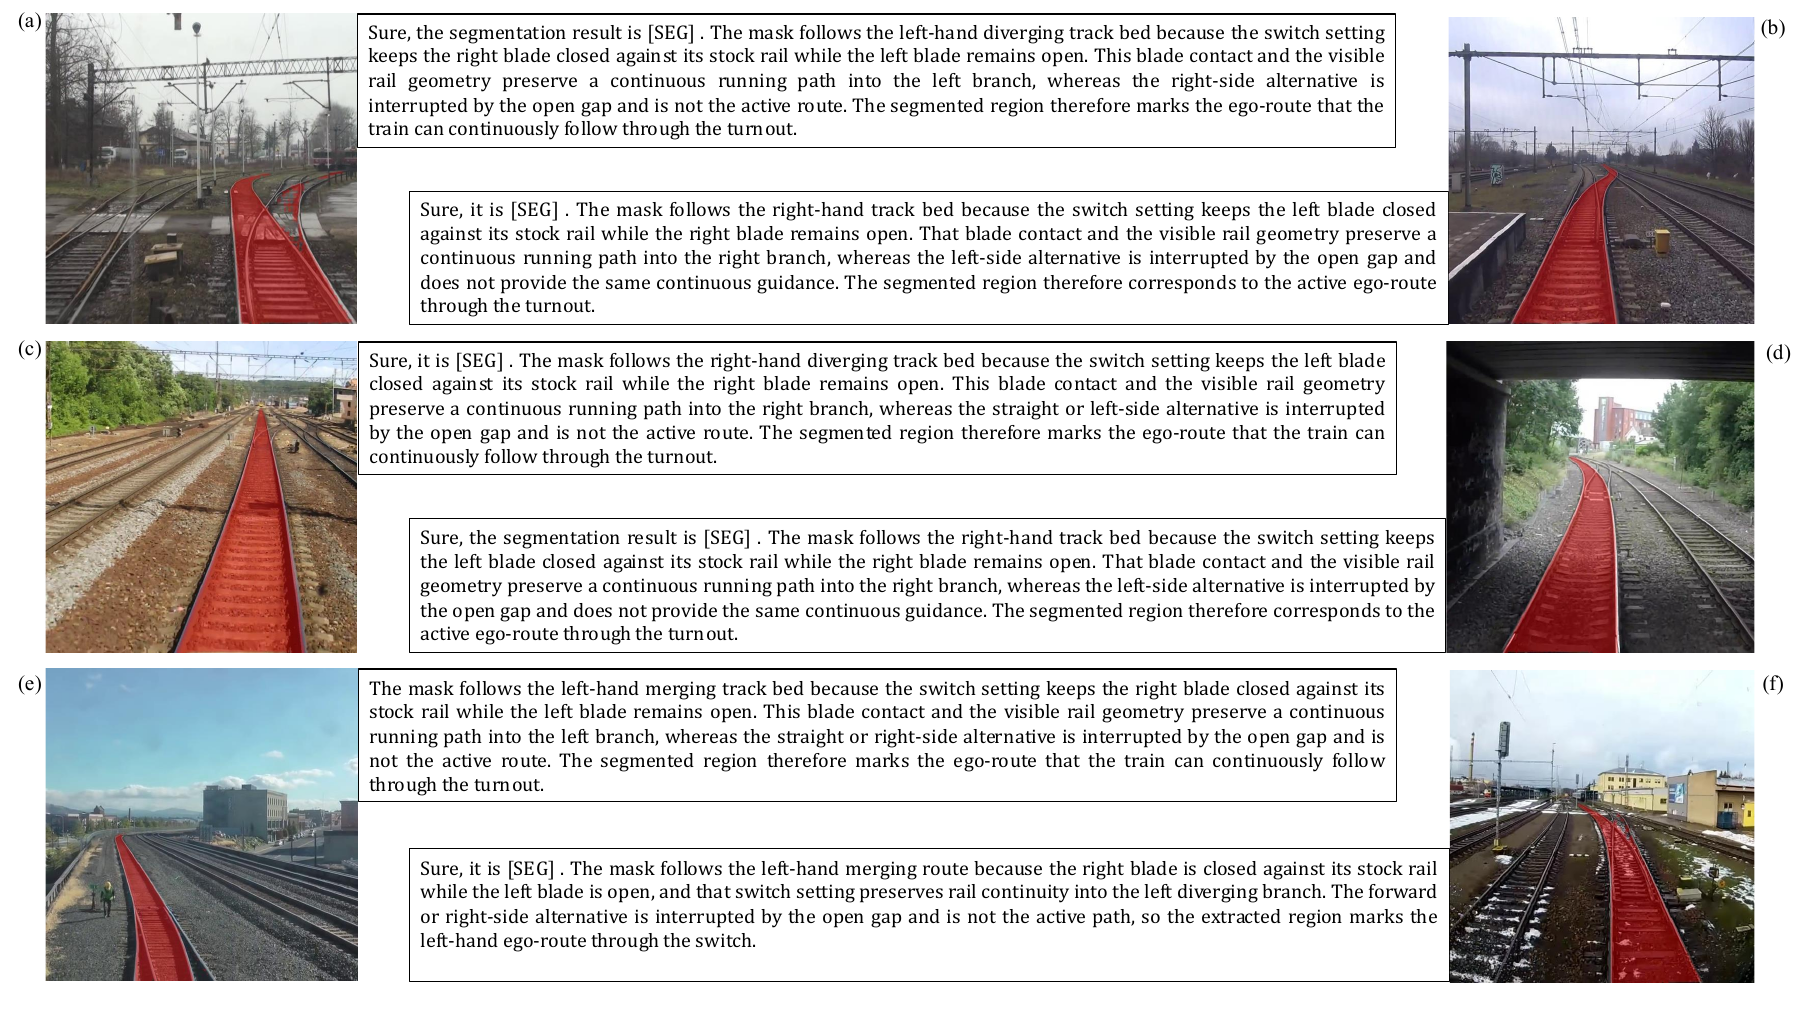
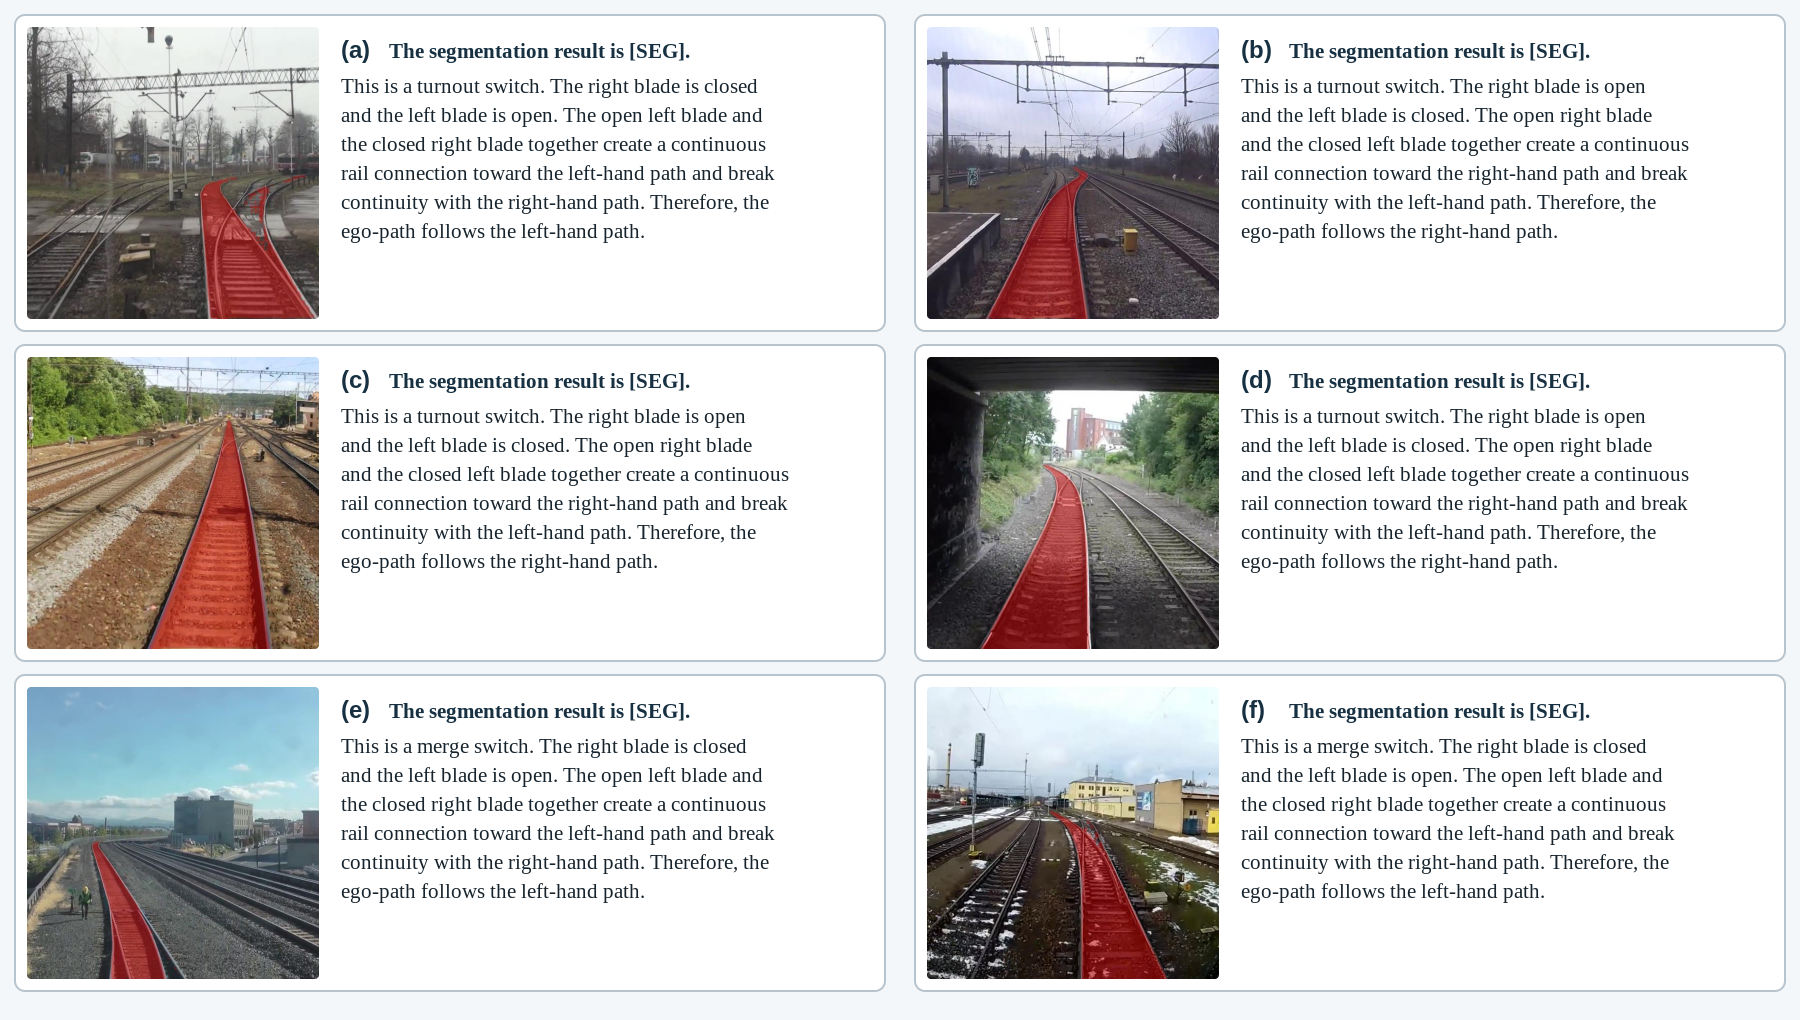
Update README with model details and corrected results visual

diff --git a/README.md b/README.md
@@ -8,29 +8,34 @@
 [![Built on LISA](https://img.shields.io/badge/Built%20on-LISA-2563eb)](https://github.com/JIA-Lab-research/LISA)
 ![Status: Research prototype](https://img.shields.io/badge/Status-Research%20prototype-f59e0b)
 
-This is the official implementation of [Reasoning-guided Ego-path Segmentation for Autonomous Trains using Vision-language Models](https://doi.org/10.5194/isprs-archives-XLIX-B3-2026-89-2026), with newer model and training updates. It adapts LISA's LLaVA/CLIP and SAM paths to select the physically continuous ego-route at railway switches, producing a binary mask and an optional rationale from an image and text prompt.
+This is the official implementation of [Reasoning-guided Ego-path Segmentation for Autonomous Trains using Vision-language Models](https://doi.org/10.5194/isprs-archives-XLIX-B3-2026-89-2026), extended with selective CLIP/SAM tuning, weighted rail-reasoning tokens, counterfactual flipping, and an auxiliary ego-side loss. It predicts a binary ego-route mask and optional rationale from a rail image and text prompt.
 
 > [!CAUTION]
 > Research prototype only. Masks and rationales can be wrong or inconsistent and must not be used for safety-critical decisions.
 
 ## Results
 
-The latest model was evaluated on 2,000 held-out images: 1,822 switch-independent and 178 switch-dependent. Scores are percentages against the ground-truth ego-route using the reasoning-oriented route prompt.
+The validation-selected joint semantic-and-reasoning checkpoint was evaluated on 2,000 held-out images: 1,822 switch-independent images and 178 switch-dependent images where route selection requires interpreting a visible downstream switch. Scores are percentages against the ground-truth ego-route.
 
-| Model | Switch-independent CIoU | Switch-independent GIoU | Switch-dependent CIoU | Switch-dependent GIoU |
-|---|---:|---:|---:|---:|
-| Original LISA | 30.07 | 32.39 | 36.59 | 39.73 |
-| Rail-finetuned LISA — semantic only | 66.23 | 66.15 | 56.95 | 57.97 |
-| **Rail-finetuned LISA — semantic + reasoning** | **89.00** | **88.34** | **90.49** | **90.33** |
+Prompts used:
 
-CIoU pools pixels across the subset; GIoU averages image-level IoU. Compared with semantic-only training, joint training gains 22.77/22.19 CIoU/GIoU points on switch-independent scenes and 33.53/32.35 on switch-dependent scenes; all paired-bootstrap 95% confidence intervals are above zero.
+- **Reasoning-oriented:** `By examining rail continuity and switch geometry, segment the active ego-route the train is following in this image.`
+- **Generic:** `Segment the track bed in this image.`
+
+| Model | Reasoning: switch-independent CIoU | Reasoning: switch-independent GIoU | Reasoning: switch-dependent CIoU | Reasoning: switch-dependent GIoU | Generic: switch-independent CIoU | Generic: switch-independent GIoU | Generic: switch-dependent CIoU | Generic: switch-dependent GIoU |
+|---|---|---|---|---|---|---|---|---|
+| Original LISA | 30.07 | 32.39 | 36.59 | 39.73 | 8.25 | 7.70 | 4.87 | 4.57 |
+| Rail-finetuned LISA — semantic only | 66.23 | 66.15 | 56.95 | 57.97 | 65.92 | 66.03 | 57.21 | 58.18 |
+| **Rail-finetuned LISA — semantic + reasoning** | **89.00** | **88.34** | **90.49** | **90.33** | 65.58 | 65.94 | 57.87 | 58.89 |
+
+CIoU is the sum of intersections divided by the sum of unions across a subset; GIoU is the mean of image-level IoU. Compared with semantic-only training, joint training gains 22.77/22.19 CIoU/GIoU points on switch-independent scenes and 33.53/32.35 on switch-dependent scenes; all paired-bootstrap 95% confidence intervals are above zero.
 
 ### Paired-bootstrap comparison
 
-Improvements over semantic-only finetuning from 10,000 paired image-level resamples:
+Improvements over semantic-only finetuning from 10,000 paired image-level percentile-bootstrap resamples (95% confidence level, seed 2026):
 
-| Scene type | Metric | Improvement | 95% confidence interval |
-|---|---|---:|---:|
+| Scene type | Metric | Difference (percentage points) | Paired-bootstrap 95% confidence interval |
+|---|---|---|---|
 | Switch-independent | CIoU | +22.77 | [22.00, 23.53] |
 | Switch-independent | GIoU | +22.19 | [21.50, 22.89] |
 | Switch-dependent | CIoU | +33.53 | [31.10, 36.07] |
@@ -38,19 +43,30 @@ Improvements over semantic-only finetuning from 10,000 paired image-level resamp
 
 ### Route-logic audit
 
-Results on 30 switch-dependent images, balanced separately by switch type and route direction:
+Results on 30 switch-dependent images: 15 turnout/15 merge and 15 left-active/15 right-active, without requiring equal counts for every type–direction combination.
 
-| Assessment | Correct |
-|---|---:|
-| Strict branch-aware mask | 24/30 (80.0%) |
-| Switch type in rationale | 26/30 (86.7%) |
-| Active-route direction in rationale | 21/30 (70.0%) |
-| Both rationale fields | 18/30 (60.0%) |
-| Correct mask **and** both rationale fields | 13/30 (43.3%) |
+A strict mask is correct only when the intended route has the highest IoU, intended-route IoU is above 0.90, the prediction reaches a route-exclusive region, and competing-route coverage in route-exclusive pixels is below 0.10.
+
+**(a) Output-level correctness**
+
+| Assessment | Correct | Incorrect |
+|---|---|---|
+| Strict mask criterion | 24 (80.0%) | 6 (20.0%) |
+| Switch type in rationale | 26 (86.7%) | 4 (13.3%) |
+| Active-route direction in rationale | 21 (70.0%) | 9 (30.0%) |
+| Switch type and direction jointly | 18 (60.0%) | 12 (40.0%) |
+
+**(b) Paired mask–rationale outcomes**
+
+| Mask assessment | Type and direction correct | At least one incorrect | Total |
+|---|---|---|---|
+| Correct | 13 | 11 | 24 |
+| Incorrect | 5 | 1 | 6 |
+| **Total** | **18** | **12** | **30** |
 
 Evaluation notes:
 
-- A generic track-bed prompt produces lower ego-route overlap, but this is not an all-track-bed accuracy measurement.
+- Generic-prompt results are measured against the ego-route mask, not an all-track-bed ground truth; they are not all-track-bed segmentation accuracy.
 - Shared track regions can hide wrong-branch predictions in aggregate IoU; rationales are auxiliary outputs, not verified explanations.
 
 ### Qualitative examples
@@ -59,16 +75,52 @@ Evaluation notes:
 
 Red overlays are predicted masks; adjacent text is model-generated.
 
-## What Changed vs Original LISA
-- Added rail reasoning dataset branch: `reason_seg_rail` (`ReasonSegRail|train`).
-- Added rail semantic segmentation support: `railsem` in `utils/sem_seg_dataset.py`.
-- Added training flow for merged HF checkpoints via `--hf_merged_model`.
-- Added HPC pipeline scripts:
-  - `fine_tune_LISA.sbatch`
-  - `fine_tune_LISA_nodes.sbatch`
-  - `merge_LISA.sbatch`
+## Model and Training
+
+![Railway-adapted LISA architecture showing the vision-language reasoning and SAM segmentation paths.](docs/readme/architecture.svg)
+
+CLIP encodes the image for LLaVA, which combines it with the route prompt and generates a rationale containing `[SEG]`. The `[SEG]` hidden state is projected to 256 dimensions and passed to SAM's prompt encoder; SAM's image encoder and mask decoder then produce the ego-route mask.
+
+The included two-node job is the current reference configuration:
+
+- **Trainable components:** LLM LoRA `q_proj`/`v_proj` adapters, token embeddings and language head, the `[SEG]` projection, multimodal projector, SAM prompt and mask decoders, the final 16 SAM blocks, the final 8 CLIP blocks used by LLaVA, and the ego-side head. Other CLIP/SAM blocks remain frozen.
+- **Supervision and loss:** semantic masks teach rail appearance; reasoning samples use fixed fields for switch type, both blade states, connected/disconnected paths, and the final left/right ego-path. Exact token alignment gives switch-type and right-blade-state targets 60× language-CE weight. The reference loss is `weighted CE + 2× mask BCE + Dice + 3× ego-side CE`; optional boundary and pixel-map BCE weights are supported but disabled in the reference job.
+- **Counterfactual augmentation:** with probability 0.5, a reasoning sample is flipped horizontally together with its mask, optional weight map, every left/right term in its rationale, and its ego-side label.
+- **Monitoring:** TensorBoard and optional W&B record loss components, switch/right-blade token CE and accuracy, learning rates, and validation CIoU/GIoU. End-of-epoch probes generate rationales from a fixed image set using the live distributed model.
+
+### What changed from original LISA
+
+- Railway semantic and structured reasoning datasets ([`utils/sem_seg_dataset.py`](utils/sem_seg_dataset.py), [`utils/reason_seg_dataset.py`](utils/reason_seg_dataset.py)).
+- Token-aligned reasoning targets and left/right-consistent augmentation ([`utils/rail_reasoning.py`](utils/rail_reasoning.py), [`utils/rail_augmentation.py`](utils/rail_augmentation.py)).
+- Selective CLIP/SAM tuning, weighted losses, and auxiliary ego-side prediction ([`train_ds.py`](train_ds.py), [`model/LISA.py`](model/LISA.py)).
+- Merged Hugging Face checkpoint support and folder-based inference ([`merge_lora_weights_and_save_hf_model.py`](merge_lora_weights_and_save_hf_model.py), [`chat_batch.py`](chat_batch.py)).
 
 ## Dataset Layout
+
+### Data composition and preprocessing
+
+| Data type (n) | RailSem19 source and selection | Input dimensions | Encoder-specific preprocessing |
+|---|---|---|---|
+| **Semantic training (6,000)** | First 6,000 images; all included. | Unscaled 1024×1024 crops; horizontally centered, bottom-aligned | **CLIP:** shortest side to 224; 224×224 center crop; normalize.<br>**SAM:** normalize; no resizing or padding. |
+| **Reasoning: close-up (126)** | Qualifying switch scenes from images 1–4,000; annotated ego-path traverses a switch region whose configuration is visually discernible; per-image ROI retains the switch mechanism and relevant route geometry. | Width: 170–1266; height: 102–659 pixels | **CLIP:** shortest side to 224; 224×224 center crop; normalize.<br>**SAM:** if needed, resize the longest side down to 1024 while preserving aspect ratio; normalize; zero-pad to 1024×1024. Images are never upscaled. |
+| **Reasoning: wider context (116)** | Qualifying switch scenes from images 1–4,000 under the same visible-switch criterion; surrounding context retained. | 1024×1024 | **CLIP:** shortest side to 224; 224×224 center crop; normalize.<br>**SAM:** normalize; no resizing or padding. |
+| **Validation (500)** | RailSem19 images 8,001–8,500; held out from training. | Unscaled 1024×1024 crops; horizontally centered, bottom-aligned | **CLIP:** shortest side to 224; 224×224 center crop; normalize.<br>**SAM:** normalize; no resizing or padding. |
+| **Test (2,000)** | RailSem19 images 6,001–8,000; held out from training and validation. | Unscaled 1024×1024 crops; horizontally centered, bottom-aligned | **CLIP:** shortest side to 224; 224×224 center crop; normalize.<br>**SAM:** normalize; no resizing or padding. |
+
+### Reasoning-training distribution
+
+Counts are before stochastic counterfactual flipping.
+
+| Switch topology | Active ego-route | Close-up | Wider context | Total |
+|---|---|---|---|---|
+| **Turnout** | Right | 42 | 33 | 75 |
+| **Turnout** | Left | 33 | 37 | 70 |
+| **Merge** | Right | 28 | 25 | 53 |
+| **Merge** | Left | 23 | 21 | 44 |
+| **Total** |  | **126** | **116** | **242** |
+
+### Expected directory structure
+
 ```text
 ├── dataset
 │   ├── reason_seg

diff --git a/docs/readme/ASSETS.md b/docs/readme/ASSETS.md
@@ -5,7 +5,9 @@ These assets present the repository's current method and latest internal evaluat
 | Asset | Intended README use | Caption / provenance |
 |---|---|---|
 | `architecture.svg` | Model overview | Repository-created, code-aligned diagram based on `model/LISA.py`, `train_ds.py`, and the current two-node reference configuration. |
-| `qualitative-results.png` | Qualitative results | Directly rendered evaluation plate. Red overlays are model-predicted valid ego-route masks; adjacent text is model-generated rationale. |
+| `qualitative-results.png` | Qualitative results | Rebuilt evaluation plate. The six prediction overlays are unchanged; rationale text follows the canonical template in `utils/rail_reasoning.py`. |
+| `qualitative-results.svg` | Editable figure source | Deterministic layout source for `qualitative-results.png`, using the six extracted prediction overlays without pixel edits. |
+| `qualitative-rationales.json` | Figure data | Machine-readable route attributes and full responses used in the rebuilt qualitative figure. |
 | `qualitative/example-000.jpg`–`example-005.jpg` | Responsive result gallery | Pixel-preserving JPEG extraction of the six prediction overlays used in the qualitative evaluation plate. |
 
 Suggested accessible captions:
